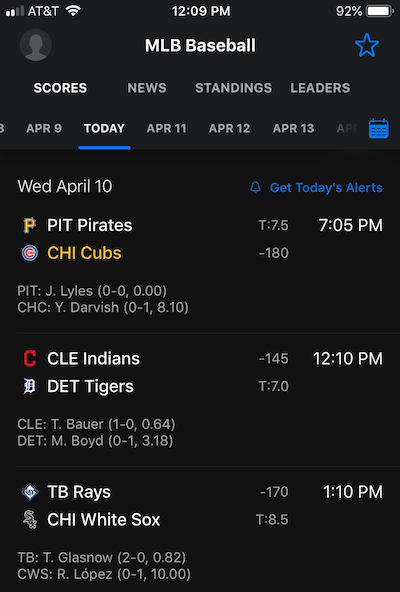
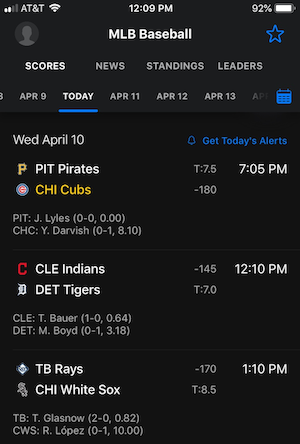
Charter Updates

diff --git a/README.md b/README.md
@@ -34,7 +34,7 @@ Pirates vs. Cubs, runs total = 7.5
 Indians vs. Tigers, runs total = 7.0  
 Rays vs. White Sox, runs total = 8.5
 
-![example](mlb.png)
+![example](mlb.png =300x444)
 
 The above "runs total" values are set by the bookie before the game is played.  
 The gambler can bet UNDER if he thinks the game will have fewer runs than the above values.  
